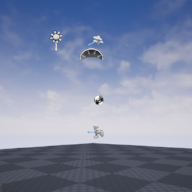
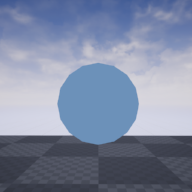
Introduce an horizontal layout comp to more easily center text comps attached under AProducerViewer. Fix also actor/component relative rotations.

diff --git a/Source/MeetupNov2019/Actors/ProducerViewer.cpp b/Source/MeetupNov2019/Actors/ProducerViewer.cpp
@@ -2,10 +2,18 @@
 #include "Engine/GameInstance.h"
 #include "..\Subsystems\ProducerSubsystem.h"
 #include "Components/TextRenderComponent.h"
+#include "TimerManager.h"
+#include "HorizontalLayoutComponent.h"
 
-AProducerViewer::AProducerViewer()
+AProducerViewer::AProducerViewer(const FObjectInitializer& ObjectInitializer)
 {
 	PrimaryActorTick.bCanEverTick = true;
+
+	USceneComponent* SceneComponent = CreateDefaultSubobject<USceneComponent>(TEXT("SceneComponent"));
+	SetRootComponent(SceneComponent);
+
+	m_LayoutComponent = CreateDefaultSubobject<UHorizontalLayoutComponent>(TEXT("LayoutComponent"));
+	m_LayoutComponent->SetupAttachment(SceneComponent);
 }
 
 void AProducerViewer::BeginPlay()
@@ -13,26 +21,62 @@ void AProducerViewer::BeginPlay()
 	Super::BeginPlay();
 	
 	m_ProducerSubsystem = GetGameInstance()->GetSubsystem<UProducerSubsystem>();
+	
+	GetWorldTimerManager().SetTimer(m_StatsViewerTimerHandle, this, &AProducerViewer::_Render, 0.2f, true);
 }
 
-void AProducerViewer::Tick(float DeltaSeconds)
+UTextRenderComponent* AProducerViewer::_CreateNewVisualizer()
 {
-	Super::Tick(DeltaSeconds);
-	
-	const auto stats = m_ProducerSubsystem->GetStats();
+	auto Component = NewObject<UTextRenderComponent>(this);
+	Component->RegisterComponent();
+	Component->SetRelativeRotation(FRotator({0,0,1,0}));
+	Component->AttachToComponent(m_LayoutComponent, FAttachmentTransformRules(EAttachmentRule::KeepRelative, EAttachmentRule::KeepWorld, EAttachmentRule::KeepRelative, false));
+	Component->SetTextRenderColor(FColor::FromHex("FF2800"));
+	return Component;
+}
 
-	const auto kSize = 100.0f;
-	const auto kStartingOffset = -(stats.ProducersInfo.Num() / 2.0f) * kSize;
-
-	UStd::TForEach_N(stats.ProducersInfo.CreateConstIterator(), stats.ProducersInfo.Num(), [&, i = 0](const FProducerInfo& info) mutable 
+void AProducerViewer::_DestroyVisualizer(const FString& key)
+{
+	const auto Producer = m_ProducersMap.Find(key);
+	if (Producer != nullptr) 
 	{
-		auto component = m_ProducersMap.Find(info.Name);
-		if (component == nullptr) 
-		{
-			component = &m_ProducersMap.Add(info.Name, NewObject<UTextRenderComponent>(this));
-			(*component)->SetTextRenderColor(FColor::FromHex("FF2800"));
+		(*Producer)->DestroyComponent();
+		m_ProducersMap.Remove(key);
+	}
+}
+
+void AProducerViewer::_UpdateVisualizer(UTextRenderComponent* Component, const FProducerInfo& Data)
+{
+	Component->SetText(FText::FromString(FString::FromInt(Data.NumValues)));
+}
+
+void AProducerViewer::_Render()
+{
+	// Create new visualizers and update the rest
+	const auto Stats = m_ProducerSubsystem->GetStats();
+	UStd::TForEach_N(Stats.ProducersInfo.CreateConstIterator(), Stats.ProducersInfo.Num(), [&, i = 0](const FProducerInfo& Info) mutable
+	{
+		auto Component = m_ProducersMap.Find(Info.Name);
+		if (Component == nullptr) {
+			Component = &m_ProducersMap.Add(Info.Name, _CreateNewVisualizer());
 		}
-		(*component)->SetText(FText::FromString(FString::FromInt(info.NumValues)));
-		(*component)->SetRelativeLocation({ kStartingOffset + (kSize * i++) + kSize * .5f, .0f, .0f });
+		
+		_UpdateVisualizer(Cast<UTextRenderComponent>(*Component), Info);
+	});
+
+	// Find deleted producers
+	TArray<FString> m_MissingProducers;
+	m_MissingProducers.SetNum(m_ProducersMap.Num());
+	UStd::TTransform_N(m_ProducersMap.CreateConstIterator(), m_ProducersMap.Num(), m_MissingProducers.CreateIterator(), [&](const TTuple<FString, UTextRenderComponent*>& iter)
+	{
+		const bool bIsPresentInStats = Stats.ProducersInfo.ContainsByPredicate([producerName = iter.Key](const FProducerInfo& info) { return info.Name == producerName; });
+		return !bIsPresentInStats ? iter.Key : "";
+	});
+	m_MissingProducers.RemoveAllSwap([](const FString& elem) { return elem.IsEmpty(); });
+
+	// Remove the visualizers corresponding to the deleted producers
+	UStd::TForEach_N(m_MissingProducers.CreateConstIterator(), m_MissingProducers.Num(), [&](const FString& str) 
+	{
+		_DestroyVisualizer(str);
 	});
 }

diff --git a/Source/MeetupNov2019/CurrentPlayerController.cpp b/Source/MeetupNov2019/CurrentPlayerController.cpp
@@ -7,6 +7,7 @@
 #include "Async.h"
 #include "Engine/World.h"
 #include "Actors/ProducerViewer.h"
+#include "Actors/HorizontalLayoutComponent.h"
 
 ACurrentPlayerController::ACurrentPlayerController()
 	: m_WaitForAsyncTask(false)
@@ -21,10 +22,8 @@ void ACurrentPlayerController::InitPlayerState()
 	m_Producer = GetGameInstance()->GetSubsystem<UProducerSubsystem>();
 	m_Producer->OnRandomValueReady().AddDynamic(this, &ACurrentPlayerController::_GotRandomValue);
 
-	// Prints stats every half a second
-	GetWorldTimerManager().SetTimer(m_StatsTimerHandle, this, &ACurrentPlayerController::_PrintStats, 0.5f, true);
-
-	GetWorld()->SpawnActor<AProducerViewer>(FVector{ 200, 0, 50 }, FRotator(FQuat{ 0,0,1,0 }));
+	m_ProducerViewer = GetWorld()->SpawnActor<AProducerViewer>();
+	m_ProducerViewer->SetActorLocationAndRotation(FVector{ 200, 0, 100 }, FRotator(0, 90, 0));
 }
 
 void ACurrentPlayerController::SetupInputComponent()
@@ -37,6 +36,8 @@ void ACurrentPlayerController::SetupInputComponent()
 
 void ACurrentPlayerController::Tick(float DeltaSeconds)
 {
+	m_ProducerViewer->FindComponentByClass<UHorizontalLayoutComponent>()->RefreshPositions();
+	
 	if (m_WaitForAsyncTask)
 		return;
 	
@@ -64,11 +65,6 @@ void ACurrentPlayerController::_KillProducer()
 {
 	m_Printer->PrintString("Killing a producer...");
 	m_Producer->RemoveProducer();
-}
-
-void ACurrentPlayerController::_PrintStats() const
-{
-	m_Producer->PrintStats();
 }
 
 void ACurrentPlayerController::_GotRandomValue(float value)

diff --git a/Source/MeetupNov2019/Actors/HorizontalLayoutComponent.cpp b/Source/MeetupNov2019/Actors/HorizontalLayoutComponent.cpp
@@ -1,0 +1,35 @@
+#include "HorizontalLayoutComponent.h"
+#include "GameFramework/Actor.h"
+#include "Common/Utils.h"
+
+void UHorizontalLayoutComponent::OnChildAttached(USceneComponent* ChildComponent)
+{
+	Super::OnChildAttached(ChildComponent);
+	RefreshPositions();
+}
+
+void UHorizontalLayoutComponent::OnChildDetached(USceneComponent* ChildComponent)
+{
+	Super::OnChildDetached(ChildComponent);
+	RefreshPositions();
+}
+
+void UHorizontalLayoutComponent::RefreshPositions()
+{
+	const auto components = GetAttachChildren();
+	if (components.Num() == 0)
+		return;
+
+	const auto Margin = 20;
+	const auto TotalSize = UStd::TAccumulate_N(components.CreateConstIterator(), components.Num(), 0, [&](int curr, USceneComponent* Component) {
+		return curr + Component->CalcLocalBounds().BoxExtent.Z + Margin;
+	});
+	const auto SingleSize = TotalSize / components.Num();
+	const auto StartingOffset = -TotalSize / 2.0f;
+	
+	UStd::TForEach_N(components.CreateConstIterator(), components.Num(), [&, accumSize = 0](USceneComponent* Component) mutable
+	{
+		Component->SetRelativeLocation({ StartingOffset + accumSize, .0f, .0f});
+		accumSize += Component->CalcLocalBounds().BoxExtent.Z + Margin;
+	});
+}

diff --git a/Source/MeetupNov2019/Actors/ProducerViewer.h b/Source/MeetupNov2019/Actors/ProducerViewer.h
@@ -3,6 +3,9 @@
 #include "GameFramework/Actor.h"
 #include "ProducerViewer.generated.h"
 
+class UHorizontalLayoutComponent;
+struct FProducerInfo;
+
 UCLASS(Blueprintable)
 class MEETUPNOV2019_API AProducerViewer : public AActor
 {
@@ -10,10 +13,22 @@ class MEETUPNOV2019_API AProducerViewer : public AActor
 
 	class UProducerSubsystem* m_ProducerSubsystem;
 	TMap<FString, class UTextRenderComponent*> m_ProducersMap;
+	FTimerHandle m_StatsViewerTimerHandle;
+
+	UPROPERTY(BlueprintReadOnly, VisibleAnywhere, Category = "ProducerViewer", meta = (DisplayName = "Horizontal layout component", AllowPrivateAccess = true))
+	UHorizontalLayoutComponent* m_LayoutComponent;
 	
 public:
 
-	AProducerViewer();
+	AProducerViewer(const FObjectInitializer& ObjectInitializer);
 	void BeginPlay() override;
-	void Tick(float DeltaSeconds) override;
+
+private:
+	
+	UTextRenderComponent* _CreateNewVisualizer();
+	void _DestroyVisualizer(const FString& key);
+	void _UpdateVisualizer(UTextRenderComponent* Component, const FProducerInfo& Data);
+	
+	void _Render();
+
 };

diff --git a/Source/MeetupNov2019/CurrentPlayerController.h b/Source/MeetupNov2019/CurrentPlayerController.h
@@ -3,18 +3,16 @@
 #include "GameFramework/PlayerController.h"
 #include "CurrentPlayerController.generated.h"
 
-class UPrinterSubsystem;
-class UProducerSubsystem;
 
 UCLASS()
 class MEETUPNOV2019_API ACurrentPlayerController : public APlayerController
 {
 	GENERATED_BODY()
 
-	UPrinterSubsystem* m_Printer;
-	UProducerSubsystem* m_Producer;
-	FTimerHandle m_StatsTimerHandle;
-
+	class UPrinterSubsystem* m_Printer;
+	class UProducerSubsystem* m_Producer;
+	class AProducerViewer* m_ProducerViewer;
+	
 	bool m_WaitForAsyncTask;
 	double m_Sum;
 
@@ -28,7 +26,6 @@ protected:
 private:
 	void _SpawnNewProducer();
 	void _KillProducer();
-	void _PrintStats() const;
 
 	UFUNCTION()
 	void _GotRandomValue(float value);

diff --git a/Source/MeetupNov2019/Actors/HorizontalLayoutComponent.h b/Source/MeetupNov2019/Actors/HorizontalLayoutComponent.h
@@ -1,0 +1,17 @@
+#pragma once
+
+#include "Components/SceneComponent.h"
+#include "HorizontalLayoutComponent.generated.h"
+
+UCLASS()
+class MEETUPNOV2019_API UHorizontalLayoutComponent : public USceneComponent
+{
+	GENERATED_BODY()
+	
+protected:
+	void OnChildAttached(USceneComponent* ChildComponent) override;
+	void OnChildDetached(USceneComponent* ChildComponent) override;
+	
+public:
+	void RefreshPositions();
+};
